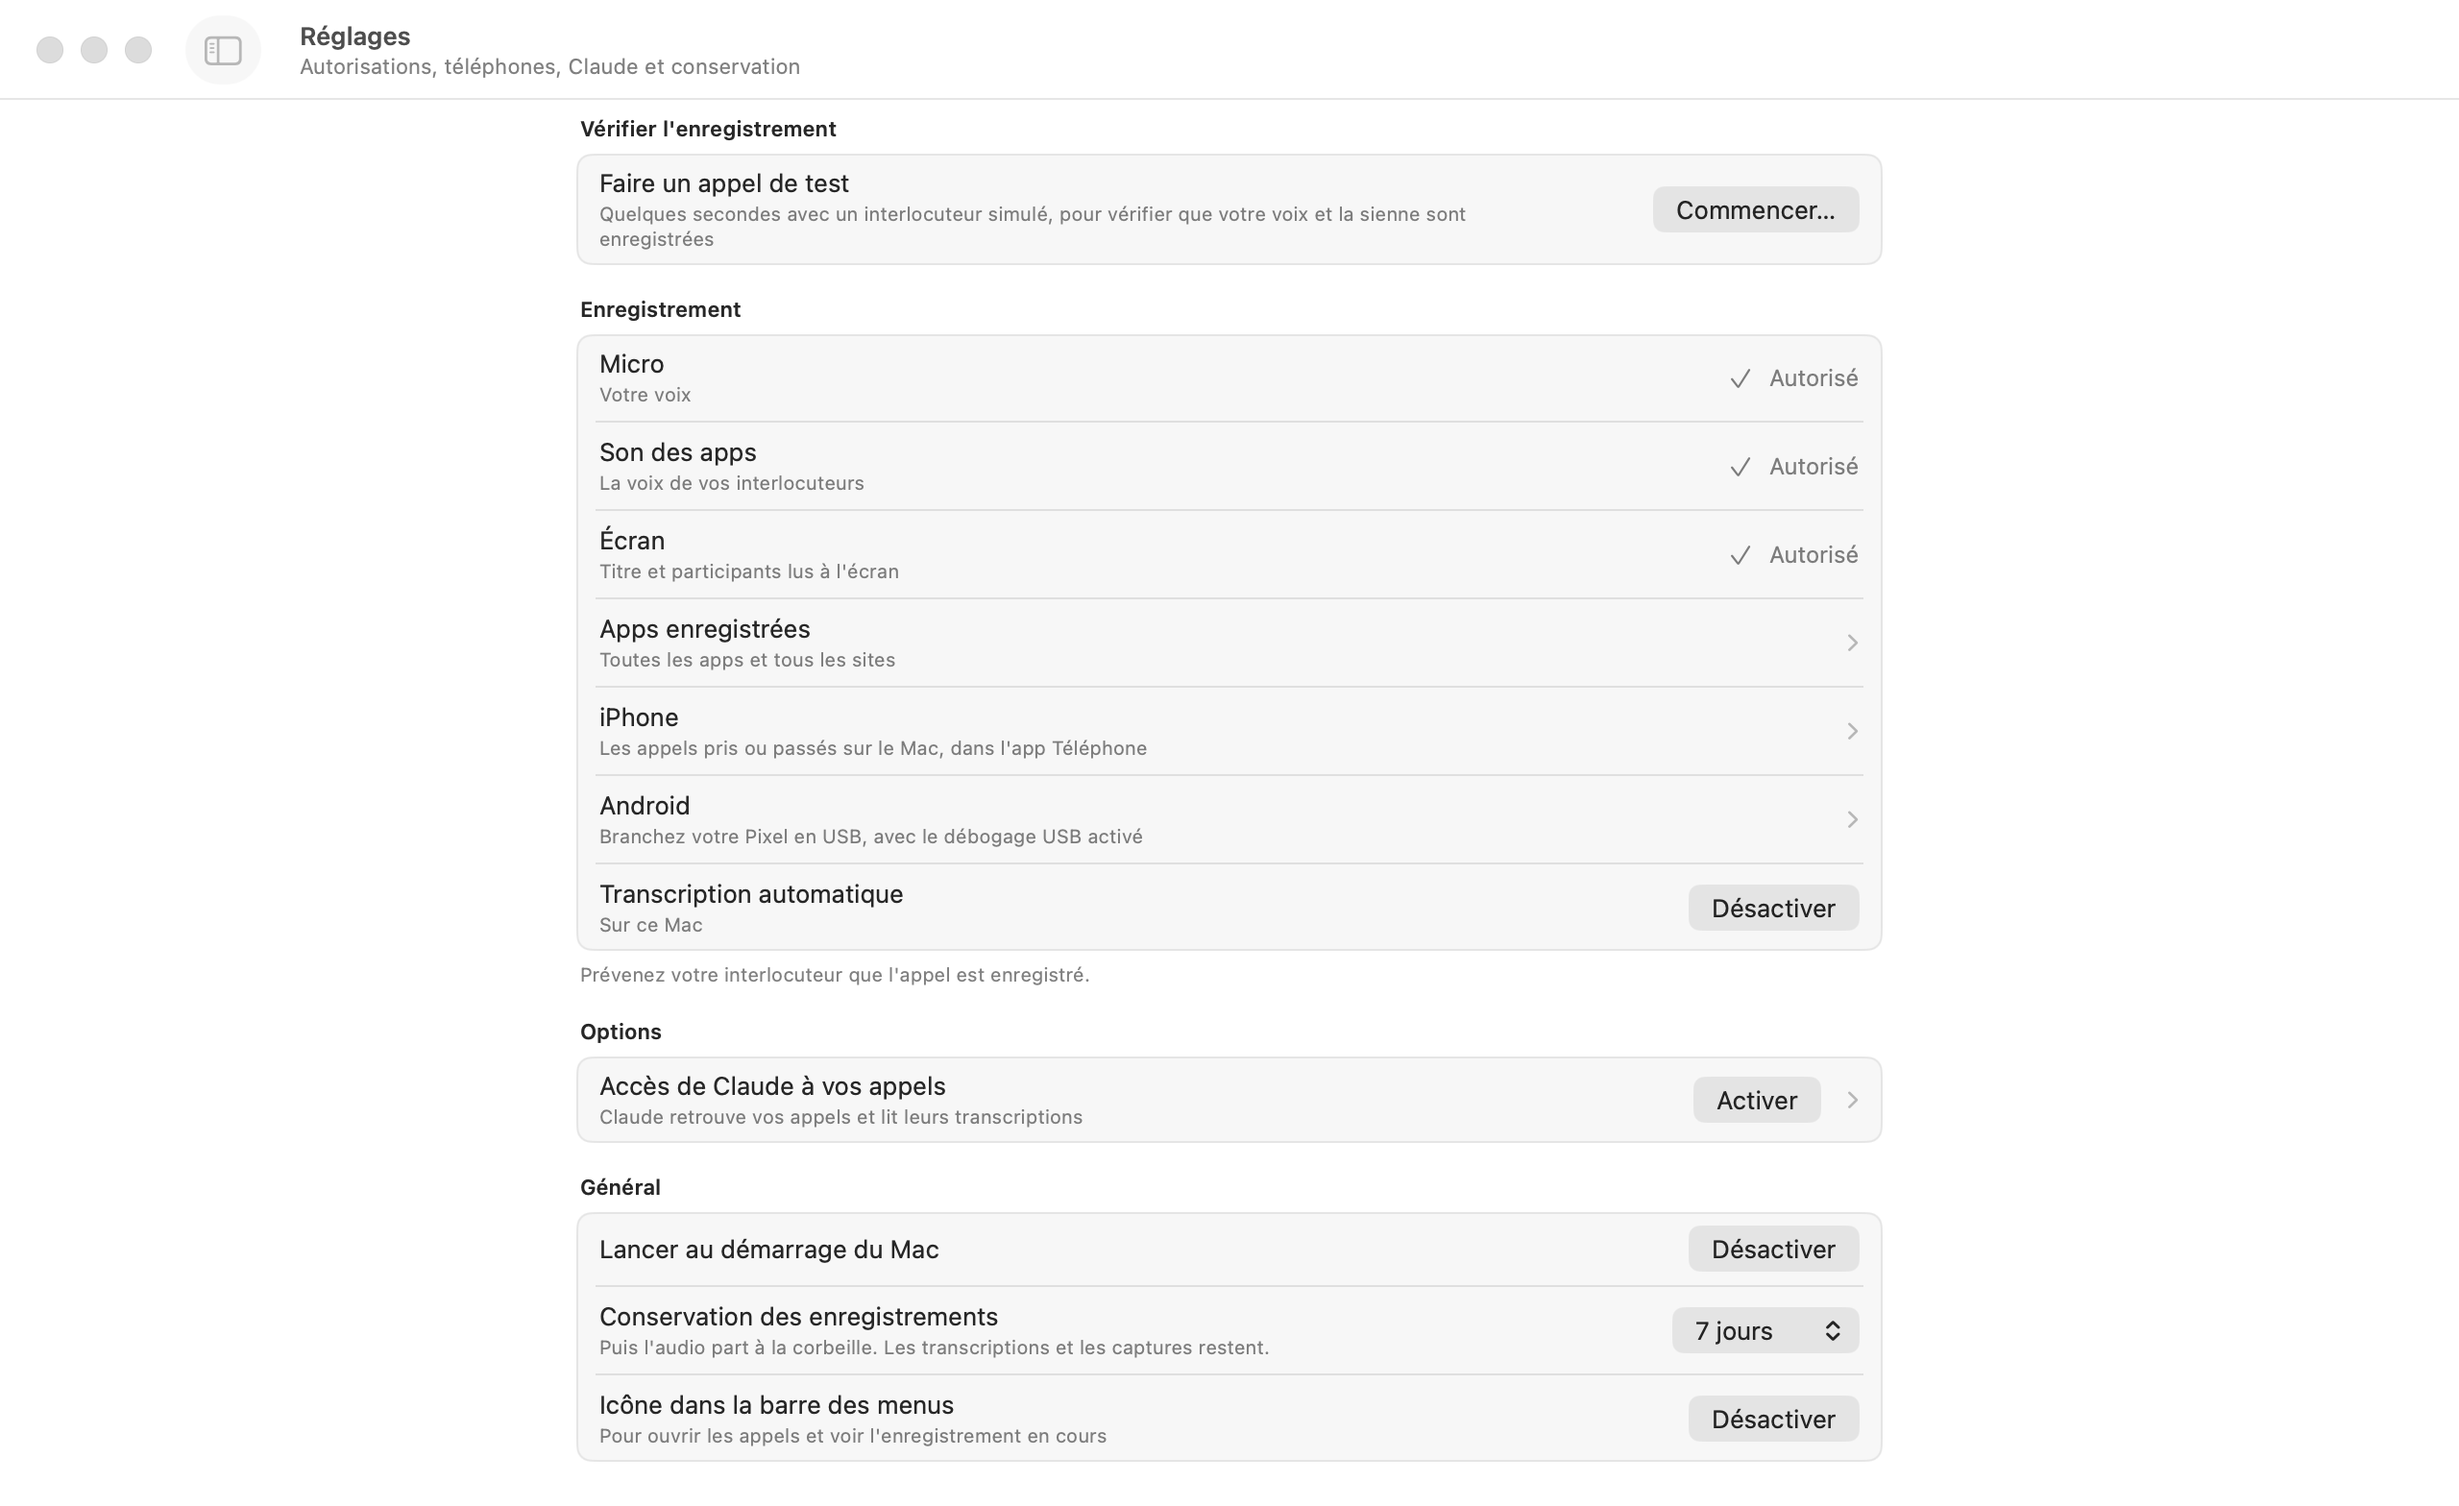
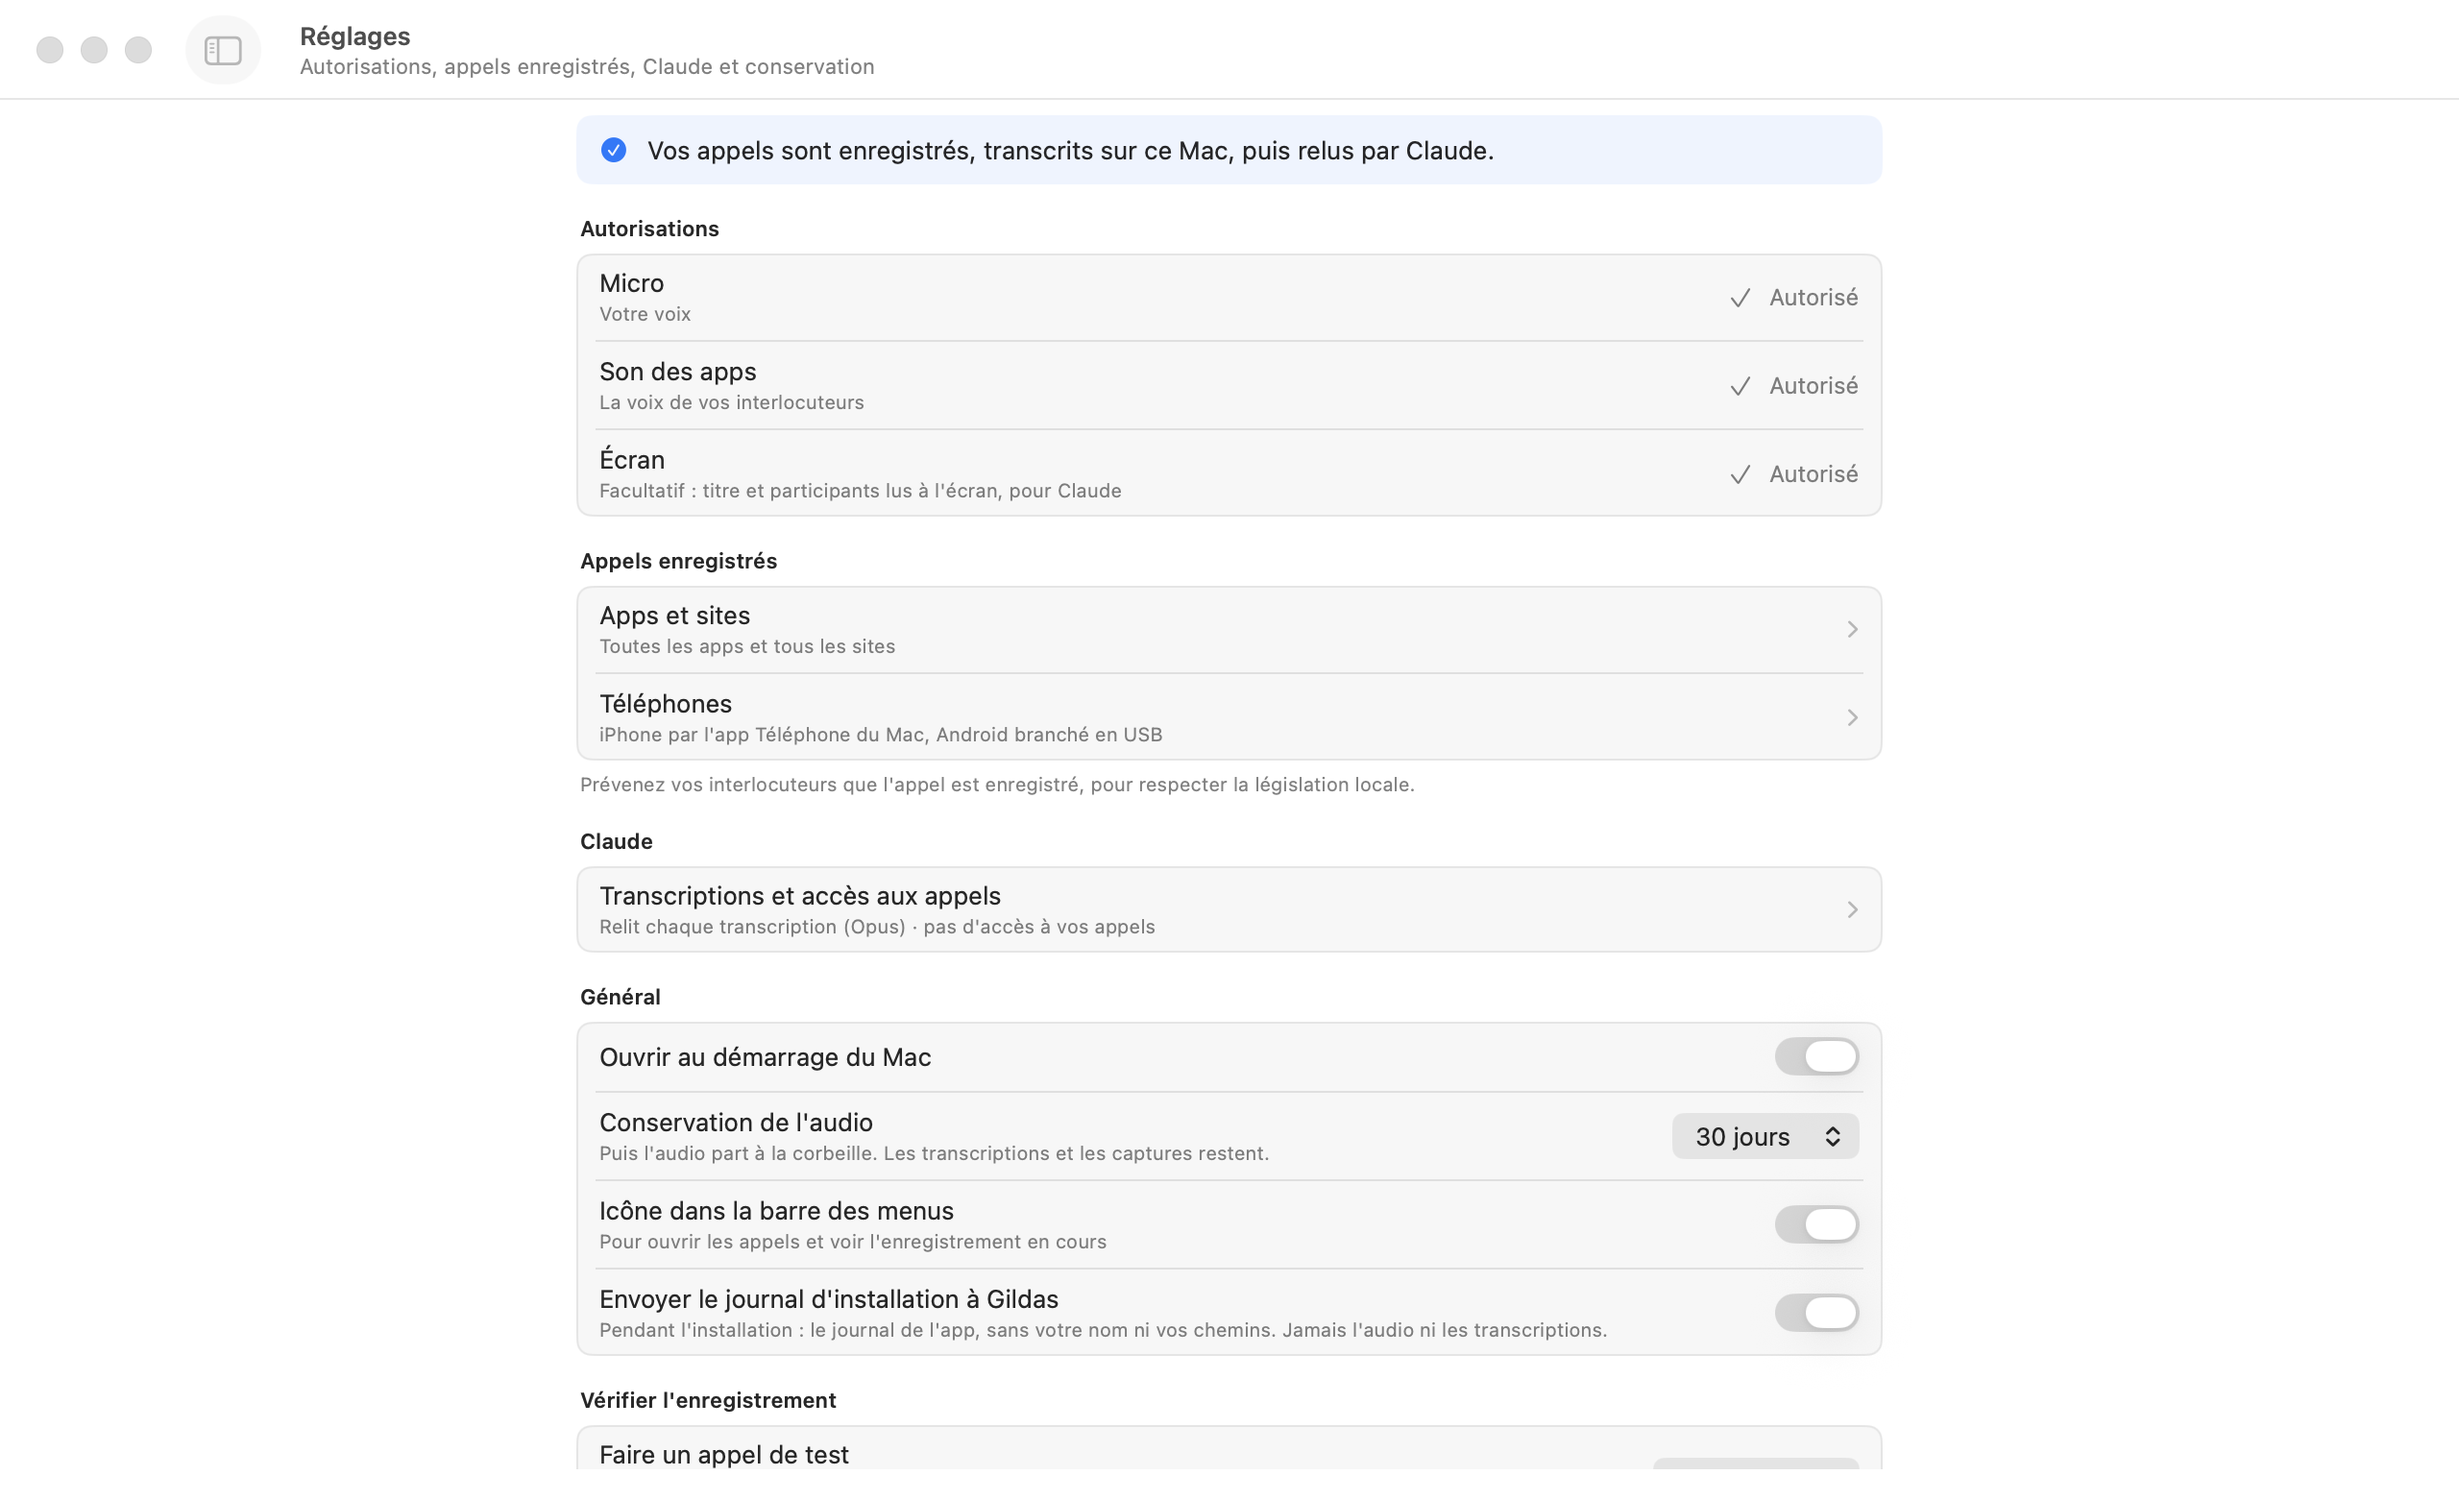
Appel de test dans la fenêtre Appels ; Claude, Apps et sites et Réglages à jour

diff --git a/index.html b/index.html
@@ -262,7 +262,7 @@
     <div class="col">
       <div class="intro">
         <h2>Installation</h2>
-        <p>Un assistant vous guide dans les autorisations de macOS, puis vérifie l'enregistrement avec un appel de test. Suivez-le jusqu'au bout : sans autorisation, CallRecorder ne peut pas enregistrer.</p>
+        <p>CallRecorder s'ouvre sur sa fenêtre Appels, avec un seul appel dans la liste : l'<b>appel de test</b>. Lancez-le : il demande le micro et le son des apps, puis vous parle une trentaine de secondes et vérifie que vos deux voix s'enregistrent. Il rejoint ensuite vos appels. Sans ces autorisations, CallRecorder ne peut pas enregistrer. Le reste se fait tout seul : l'ouverture au démarrage du Mac, et l'accès de Claude à vos appels s'il est installé.</p>
         <p class="req" data-compat>macOS 15 ou plus récent · Mac M1 ou plus récent</p>
       </div>
 
@@ -309,7 +309,7 @@
         </div></details>
         <details class="row"><summary>Donner à Claude l'accès à vos appels</summary><div class="answer">
           <ol>
-            <li>Dans les Réglages, page <b>Claude et autres assistants</b>, ligne <b>Accès de Claude à vos appels</b>, cliquez sur <b>Donner l'accès</b> : Claude Code et Claude Desktop sont reliés à vos appels.</li>
+            <li>Si Claude était installé quand vous avez installé CallRecorder, c'est déjà fait. Sinon, dans les Réglages, ouvrez <b>Transcriptions et accès aux appels</b> et activez <b>Accès de Claude à vos appels</b> : Claude Code et Claude Desktop sont reliés à vos appels.</li>
             <li>Quittez et rouvrez Claude.</li>
             <li>Demandez-lui par exemple : « Qu'est-ce que j'ai promis à Paul jeudi ? »</li>
           </ol>
@@ -335,11 +335,11 @@
           <p>Pendant l'appel, cliquez sur l'icône de CallRecorder dans la barre des menus : <b>Arrêter</b> termine l'enregistrement, <b>Supprimer cet appel</b> l'efface. Après l'appel, choisissez-le dans la fenêtre Appels et appuyez sur <b>⌘⌫</b>, ou faites un clic droit &gt; <b>Supprimer l'appel</b> : il part à la corbeille du Mac. Édition &gt; <b>Annuler</b> (⌘Z) le remet.</p>
         </div></details>
         <details class="row"><summary>Choisir les apps et les sites enregistrés</summary><div class="answer">
-          <p>Dans les <b>Réglages</b>, en bas à gauche de la fenêtre Appels, ouvrez <b>Apps enregistrées</b>, tout en bas : chaque app a son interrupteur. Dans un navigateur, chaque site se coupe à part : Google Meet, Zoom, Teams, WhatsApp Web, Slack… Il est reconnu au titre de la fenêtre ; <b>Autres sites</b> couvre les appels qu'on ne reconnaît pas.</p>
+          <p>Dans les <b>Réglages</b>, en bas à gauche de la fenêtre Appels, ouvrez <b>Apps et sites</b>, sous <b>Appels enregistrés</b> : chaque app a son interrupteur. Dans un navigateur, chaque site se coupe à part : Google Meet, Zoom, Teams, WhatsApp Web, Slack… Il est reconnu au titre de la fenêtre ; <b>Autres sites</b> couvre les appels qu'on ne reconnaît pas.</p>
         </div></details>
         <details class="row"><summary>Revoir les autorisations et les réglages</summary><div class="answer">
-          <p>En bas à gauche de la fenêtre Appels, cliquez sur <b>Réglages</b> (ou ⌘,) : ils prennent la place des appels. Chaque autorisation s'y active ou se retire, comme la durée de conservation de l'audio et l'icône de la barre des menus. Quand Réglages Système s'ouvre, un petit panneau s'y colle pour indiquer quoi faire.</p>
-          <img src="img/guides/configuration.png" loading="lazy" alt="Les Réglages, dans la fenêtre Appels : le micro, le son des apps, l'écran et la transcription automatique, chacun avec son bouton.">
+          <p>S'il manque le micro ou le son des apps, un bandeau en tête de la liste des appels le dit : <b>Faire l'appel de test</b> les redemande et vérifie l'enregistrement. En bas à gauche de la fenêtre Appels, cliquez sur <b>Réglages</b> (ou ⌘,) : ils prennent la place des appels. En haut, une ligne dit si vos appels sont bien enregistrés, et sinon ce qui manque. Chaque autorisation s'y donne d'un clic ; on y règle aussi Claude, la durée de conservation de l'audio et l'icône de la barre des menus. Quand Réglages Système s'ouvre, un petit panneau s'y colle pour indiquer quoi faire.</p>
+          <img src="img/guides/configuration.png" loading="lazy" alt="Les Réglages, dans la fenêtre Appels : le micro, le son des apps et l'écran autorisés, les apps et les téléphones enregistrés, Claude, puis la conservation de l'audio.">
         </div></details>
       </div>
     </div>
